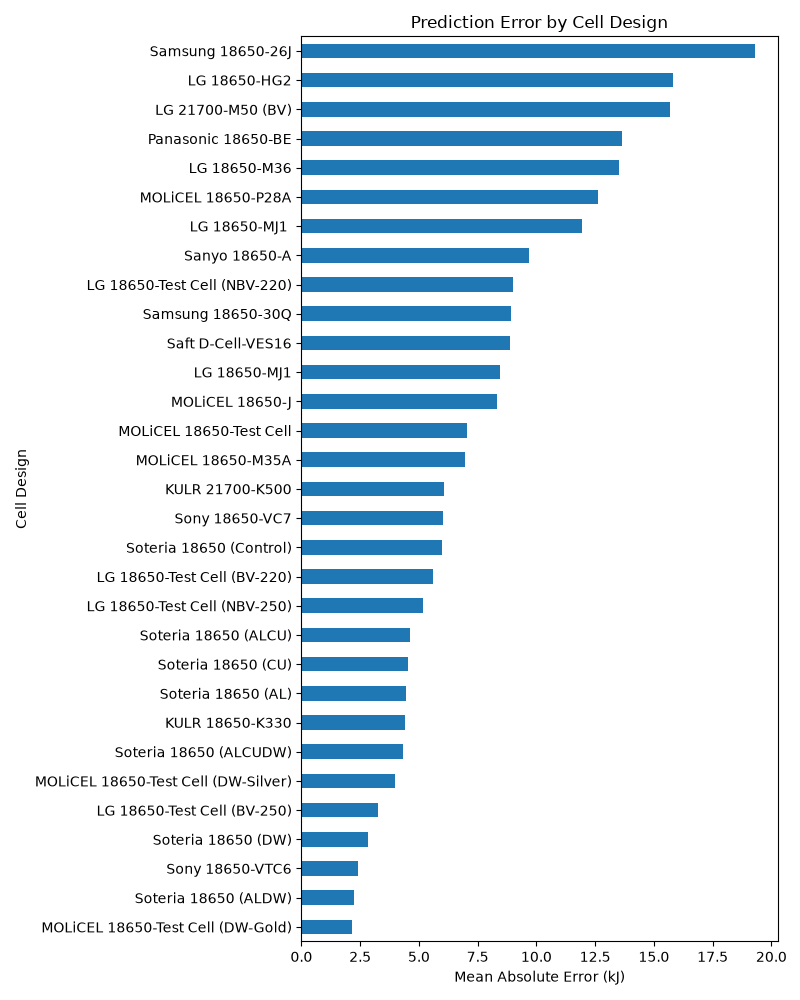
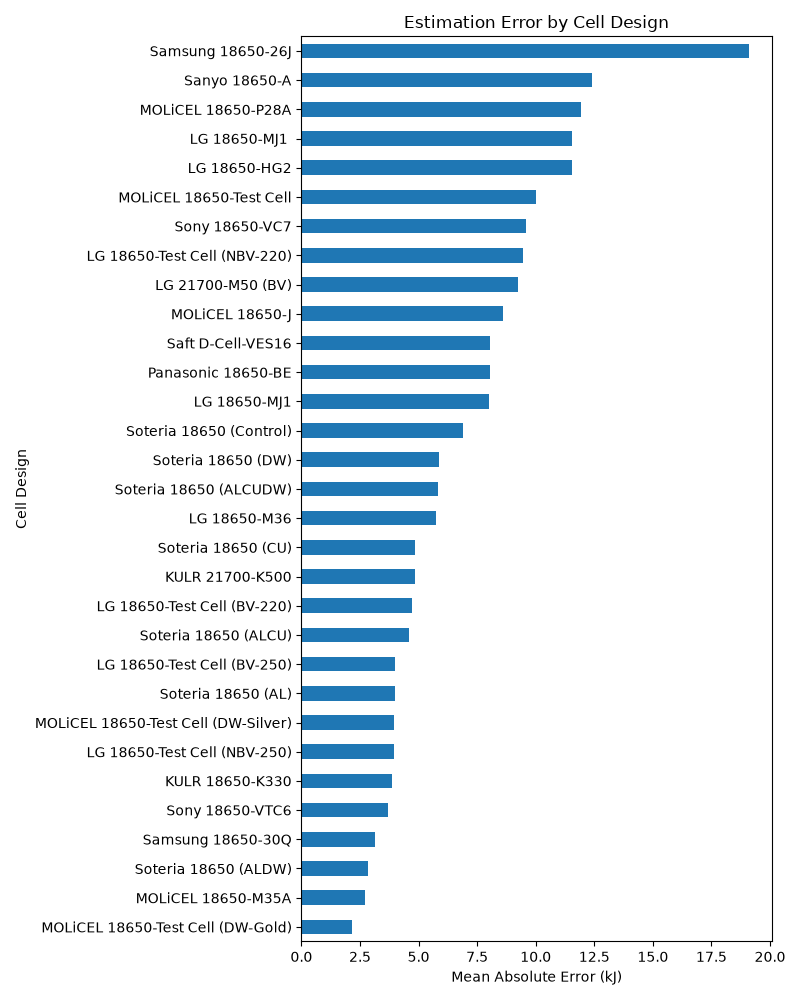
feat: complete benchmark with rigorous group CV, tiers, and reproducibility updates

diff --git a/docs/index.html b/docs/index.html
@@ -67,8 +67,8 @@ footer{font-size:.8rem;color:var(--mu);margin-top:20px}
 
 <section id="p3" class="hide">
 <div class="card"><h2>Layer 3: real-data benchmark</h2>
-<p>A Python benchmark on the open Battery Failure Databank (~365 calorimeter abuse tests on commercial Li-ion cells across ~31 cell designs). It evaluates how well total heat release can be predicted from cell metadata and ejected mass (excluding any leakage columns), compared with a naive baseline, and whether the model generalizes to unseen cell designs.</p>
-<p class="note"><b>Results:</b> A Random Forest model predicted total heat yield with high accuracy (R² = 0.939, MAE = 4.6 kJ) on random splits. However, when tested on unseen cell designs (group CV), performance dropped significantly (R² = 0.761, MAE = 8.4 kJ). This highlights the difficulty of extrapolating safety predictions to entirely new battery formats and chemistries. No novelty is claimed; this is a benchmark/replication exercise.</p></div>
+<p>A Python benchmark on the open Battery Failure Databank (~365 calorimeter abuse tests on commercial Li-ion cells across ~31 cell designs). It evaluates how well total heat release can be estimated from cell metadata and ejected mass, compared with a naive baseline, and whether the model generalizes to unseen cell designs.</p>
+<p class="note"><b>Results (10 repeats of 5-fold group CV by cell design):</b> Using strictly pre-test metadata (Tier A), a Random Forest estimated total heat yield with R² = 0.671 ± 0.254 and MAE = 8.798 ± 1.959 kJ (± values represent standard deviation across splits, not a confidence interval). Including in-test trigger parameters (Tier B) showed virtually no improvement over Tier A. However, including post-test ejecta mass and observed failure mechanisms (Tier C) significantly increased performance to R² = 0.801 ± 0.133 and MAE = 7.211 ± 1.573 kJ, with Ridge and Random Forest performing about equally well. The clear finding is that post-test measurements add a lot of explanatory power.<br><br><b>Leakage note:</b> Columns containing explicit downstream heat measurements were excluded. Including batch IDs (Test-Series) did not artificially inflate unseen-design performance because the IDs themselves were entirely unseen in the test folds. No novelty is claimed; this is a benchmark/replication exercise, and conclusions apply only to this specific dataset.</p></div>
 <div class="card"><h2>Sources behind this project</h2><dl>
 <dt>Battery Failure Databank</dt><dd>Finegan et al., Journal of Power Sources 597 (2024) 234106, doi:10.1016/j.jpowsour.2024.234106</dd>
 <dt>ML for thermal runaway warning (review)</dt><dd>Batteries 2026, 12(6), 204, doi:10.3390/batteries12060204</dd>

diff --git a/bfd_benchmark.py b/bfd_benchmark.py
@@ -1,14 +1,7 @@
-"""Benchmark: predict total heat output of Li-ion thermal runaway from cell metadata
-and ejected mass, using the open NREL/NASA Battery Failure Databank.
-
-Usage:  python bfd_benchmark.py path/to/databank.xlsx [sheet_name]
-Rigor choices: (1) naive mean baseline, (2) random-split CV AND group-split CV by
-cell design (does the model generalise to cell designs it has never seen?),
-(3) leakage guard: columns that look like heat outputs are never used as features.
-IMPORTANT: column names are auto-guessed by keywords. CHECK the printed mapping and
-edit TARGET_KEYS / GROUP_KEYS below if your file differs.
-"""
-import sys, re, numpy as np, pandas as pd
+import sys, re, warnings
+import numpy as np
+import pandas as pd
+import matplotlib.pyplot as plt
 from sklearn.dummy import DummyRegressor
 from sklearn.linear_model import RidgeCV
 from sklearn.ensemble import RandomForestRegressor
@@ -16,62 +9,176 @@ from sklearn.pipeline import make_pipeline
 from sklearn.compose import ColumnTransformer
 from sklearn.impute import SimpleImputer
 from sklearn.preprocessing import OneHotEncoder, StandardScaler
-from sklearn.model_selection import KFold, GroupKFold, cross_validate
+from sklearn.model_selection import KFold, cross_validate, cross_val_predict
 
-TARGET_KEYS = ["corrected", "total", "energy", "yield"]
-GROUP_KEYS  = ["cell-description"]
-LEAK_WORDS  = ["heat", "energy", "kj", "fraction", "%"]
+warnings.filterwarnings("ignore", category=UserWarning)
 
-def find(cols, keys):
-    for c in cols:
-        if all(k in str(c).lower() for k in keys): return c
-    raise SystemExit(f"No column matching {keys}. Columns: {list(cols)}")
+def clean_col_name(c):
+    return re.sub(r"\s+", " ", str(c)).strip()
+
+def get_repeated_group_cv(groups, n_repeats=10, n_splits=5, random_state=42):
+    rng = np.random.RandomState(random_state)
+    unique_groups = groups.unique()
+    cv_splits = []
+    for _ in range(n_repeats):
+        rng.shuffle(unique_groups)
+        folds = np.array_split(unique_groups, n_splits)
+        for test_groups in folds:
+            test_idx = np.where(groups.isin(test_groups))[0]
+            train_idx = np.where(~groups.isin(test_groups))[0]
+            cv_splits.append((train_idx, test_idx))
+    return cv_splits
+
+def run_evaluation(X, y, groups, models, cv_splits):
+    num_cols = X.select_dtypes(include=[np.number]).columns.tolist()
+    cat_cols = X.select_dtypes(exclude=[np.number]).columns.tolist()
+    
+    pre = ColumnTransformer([
+        ("n", make_pipeline(SimpleImputer(strategy="median"), StandardScaler()), num_cols),
+        ("c", make_pipeline(SimpleImputer(strategy="most_frequent"), OneHotEncoder(handle_unknown="ignore", sparse_output=False)), cat_cols)
+    ])
+    
+    results = {}
+    for mn, m in models.items():
+        pipe = make_pipeline(pre, m)
+        r = cross_validate(pipe, X, y, cv=cv_splits, scoring=("neg_mean_absolute_error", "r2"), n_jobs=-1)
+        mae_scores = -r["test_neg_mean_absolute_error"]
+        r2_scores = r["test_r2"]
+        # Since it's repeated CV, we average over the splits per repeat, then over repeats
+        # Or simpler: just take the mean and std of all n_splits * n_repeats folds
+        # Wait, standard practice for repeated CV is to average over all splits
+        results[mn] = {
+            "MAE_mean": np.mean(mae_scores),
+            "MAE_std": np.std(mae_scores),
+            "R2_mean": np.mean(r2_scores),
+            "R2_std": np.std(r2_scores)
+        }
+    return results
 
 def main(path, sheet=0):
     df = pd.read_excel(path, sheet_name=sheet) if path.endswith(("xlsx","xls")) else pd.read_csv(path)
-    df.columns = [re.sub(r"\s+", " ", str(c)).strip() for c in df.columns]
-    y_col, g_col = find(df.columns, TARGET_KEYS), find(df.columns, GROUP_KEYS)
-    print(f"Target: {y_col!r}   Group: {g_col!r}")
-    df = df.dropna(subset=[y_col, g_col])
-    feats = [c for c in df.columns if c not in (y_col,) and not any(w in c.lower() for w in LEAK_WORDS)]
-    num = [c for c in feats if pd.api.types.is_numeric_dtype(df[c]) and df[c].notna().mean() > .5]
-    cat = [c for c in feats if c not in num and df[c].nunique() <= 30]
-    for c in cat:
-        df[c] = df[c].astype(str)
-    print(f"n={len(df)}  numeric features={num}  categorical={cat}")
-    X, y, g = df[num + cat], df[y_col].astype(float), df[g_col]
-    pre = ColumnTransformer([
-        ("n", make_pipeline(SimpleImputer(strategy="median"), StandardScaler()), num),
-        ("c", make_pipeline(SimpleImputer(strategy="most_frequent"), OneHotEncoder(handle_unknown="ignore")), cat)])
-    models = {"Baseline (mean)": DummyRegressor(),
-              "Ridge": RidgeCV(alphas=np.logspace(-2, 3, 12)),
-              "Random forest": RandomForestRegressor(300, min_samples_leaf=2, random_state=0)}
-    splits = {"Random 5-fold": KFold(5, shuffle=True, random_state=0),
-              "Unseen cell design (group CV)": GroupKFold(min(5, g.nunique()))}
+    df.columns = [clean_col_name(c) for c in df.columns]
+    
+    # Standardize 'Cell-Casing-Thickness' name to avoid encoding issues
+    for c in df.columns:
+        if "Casing-Thickness" in c:
+            df.rename(columns={c: "Cell-Casing-Thickness-um"}, inplace=True)
+            
+    y_col = "Corrected-Total-Energy-Yield-kJ"
+    g_col = "Cell-Description"
+    df = df.dropna(subset=[y_col, g_col]).copy()
+    
+    # Force convert to numeric (errors='coerce' turns "-" into NaN)
+    cols_to_numeric = [
+        "Cell-Capacity-Ah", "Cell-Nominal-Voltage-V", "Cell-Energy-Wh",
+        "Pre-Test-Cell-Open-Circuit-Voltage-V", "Pre-Test-Cell-Mass-g",
+        "Pre-Test-Positive-Copper-Mesh-Mass-g", "Pre-Test-Negative-Copper-Mesh-Mass-g",
+        "Cell-Casing-Thickness-um", "Heater-Power-W", "Heater-Time-On-s",
+        "Energy-Applied-to-Trigger-kJ", "Avg-Cell-Temp-At-Trigger-degC",
+        "Post-Test-Mass-Cell-Body-g", "Post-Test-Mass-Positive-Ejecta-Mating-g",
+        "Post-Test-Mass-Positive-Ejecta-Bore-Baffles-g", "Post-Test-Mass-Positive-Copper-Mesh-g",
+        "Post-Test-Mass-Negative-Ejecta-Mating-g", "Post-Test-Mass-Negative-Ejecta-Bore-Baffles-g",
+        "Post-Test-Mass-Negative-Copper-Mesh-g", "Post-Test-Mass-Unrecovered-g"
+    ]
+    for c in cols_to_numeric:
+        if c in df.columns:
+            df[c] = pd.to_numeric(df[c], errors="coerce")
+            
+    # Tiers Definition
+    tier_a_feats = [
+        "Cell-Format", "Cell-Capacity-Ah", "Cell-Nominal-Voltage-V", "Cell-Energy-Wh",
+        "Pre-Test-Cell-Open-Circuit-Voltage-V", "Pre-Test-Cell-Mass-g",
+        "Pre-Test-Positive-Copper-Mesh-Mass-g", "Pre-Test-Negative-Copper-Mesh-Mass-g",
+        "Pressure-Assisted-Seal-Configuration-Positive", "Pressure-Assisted-Seal-Configuration-Negative",
+        "Cell-Casing-Thickness-um", "Bottom-Vent-Yes-No", "Trigger-Mechanism"
+    ]
+    
+    # Suspicious identifiers (Test-Series and S-FTRC-Generation)
+    tier_a_with_id = tier_a_feats + ["Test-Series", "S-FTRC-Generation"]
+    
+    tier_b_feats = tier_a_feats + [
+        "Heater-Power-W", "Heater-Time-On-s", "Energy-Applied-to-Trigger-kJ", "Avg-Cell-Temp-At-Trigger-degC"
+    ]
+    
+    tier_c_feats = tier_b_feats + [
+        "Post-Test-Mass-Cell-Body-g", "Post-Test-Mass-Positive-Ejecta-Mating-g",
+        "Post-Test-Mass-Positive-Ejecta-Bore-Baffles-g", "Post-Test-Mass-Positive-Copper-Mesh-g",
+        "Post-Test-Mass-Negative-Ejecta-Mating-g", "Post-Test-Mass-Negative-Ejecta-Bore-Baffles-g",
+        "Post-Test-Mass-Negative-Copper-Mesh-g", "Post-Test-Mass-Unrecovered-g",
+        "Cell-Failure-Mechanism"
+    ]
+    
+    def prep_X(features):
+        X = df[features].copy()
+        for c in X.columns:
+            if X[c].dtype == object:
+                X[c] = X[c].astype(str)
+        return X
+
+    X_a_noid = prep_X(tier_a_feats)
+    X_a_id = prep_X(tier_a_with_id)
+    X_b = prep_X(tier_b_feats)
+    X_c = prep_X(tier_c_feats)
+    
+    y = df[y_col].astype(float)
+    g = df[g_col]
+    
+    models = {
+        "Baseline (mean)": DummyRegressor(),
+        "Ridge": RidgeCV(alphas=np.logspace(-2, 3, 12)),
+        "Random forest": RandomForestRegressor(300, min_samples_leaf=2, random_state=0, n_jobs=-1)
+    }
+    
+    cv_splits = get_repeated_group_cv(g, n_repeats=10, n_splits=5, random_state=42)
+    
+    print("Running Tier A (Without IDs)...")
+    res_a = run_evaluation(X_a_noid, y, g, models, cv_splits)
+    print("Running Tier A (With IDs)...")
+    res_a_id = run_evaluation(X_a_id, y, g, models, cv_splits)
+    print("Running Tier B...")
+    res_b = run_evaluation(X_b, y, g, models, cv_splits)
+    print("Running Tier C...")
+    res_c = run_evaluation(X_c, y, g, models, cv_splits)
+    
     rows = []
-    for sn, sp in splits.items():
-        for mn, m in models.items():
-            r = cross_validate(make_pipeline(pre, m), X, y, groups=g, cv=sp,
-                               scoring=("neg_mean_absolute_error", "r2"))
-            rows.append(dict(split=sn, model=mn, MAE=-r["test_neg_mean_absolute_error"].mean(),
-                             R2=r["test_r2"].mean()))
-    out = pd.DataFrame(rows).round(3)
-    print(out.to_string(index=False)); out.to_csv("results.csv", index=False)
+    for tier_name, res in [("Tier A (No IDs)", res_a), ("Tier A (With IDs)", res_a_id), ("Tier B", res_b), ("Tier C", res_c)]:
+        for mn in models:
+            rows.append({
+                "Tier": tier_name,
+                "Model": mn,
+                "MAE": f"{res[mn]['MAE_mean']:.3f} +/- {res[mn]['MAE_std']:.3f}",
+                "R2": f"{res[mn]['R2_mean']:.3f} +/- {res[mn]['R2_std']:.3f}"
+            })
+            
+    out = pd.DataFrame(rows)
+    print(out.to_string(index=False))
+    try:
+        out.to_csv("results_final.csv", index=False)
+        print("Saved to results_final.csv")
+    except PermissionError:
+        print("Warning: Could not save to results_final.csv (Permission denied).")
     
-    print("Generating plots...")
-    from sklearn.model_selection import cross_val_predict
-    import matplotlib.pyplot as plt
-    sp = splits["Unseen cell design (group CV)"]
-    m = models["Random forest"]
-    pipe = make_pipeline(pre, m)
-    y_pred = cross_val_predict(pipe, X, y, groups=g, cv=sp)
-    
+    # Generate Plots for Tier C Random Forest
+    pipe = make_pipeline(
+        ColumnTransformer([
+            ("n", make_pipeline(SimpleImputer(strategy="median"), StandardScaler()), X_c.select_dtypes(include=[np.number]).columns.tolist()),
+            ("c", make_pipeline(SimpleImputer(strategy="most_frequent"), OneHotEncoder(handle_unknown="ignore", sparse_output=False)), X_c.select_dtypes(exclude=[np.number]).columns.tolist())
+        ]),
+        models["Random forest"]
+    )
+    # Just 1 group split for predictions visualization
+    cv_1 = get_repeated_group_cv(g, n_repeats=1, n_splits=5, random_state=42)
+    y_pred = np.zeros_like(y)
+    for tr, ts in cv_1:
+        pipe.fit(X_c.iloc[tr], y.iloc[tr])
+        y_pred[ts] = pipe.predict(X_c.iloc[ts])
+        
     plt.figure(figsize=(6, 5))
     plt.scatter(y, y_pred, alpha=0.5, edgecolor='k')
-    plt.plot([y.min(), y.max()], [y.min(), y.max()], 'r--', label='Perfect prediction')
+    plt.plot([y.min(), y.max()], [y.min(), y.max()], 'r--', label='Perfect estimation')
     plt.xlabel('Actual Total Heat Output (kJ)')
-    plt.ylabel('Predicted Total Heat Output (kJ)')
-    plt.title('Random Forest (Unseen Cell Design CV)')
+    plt.ylabel('Estimated Total Heat Output (kJ)')
+    plt.title('Random Forest Estimation (Unseen Cell Design CV)')
     plt.legend()
     plt.tight_layout()
     plt.savefig("pred_vs_actual.png")
@@ -79,12 +186,18 @@ def main(path, sheet=0):
     
     err = np.abs(y - y_pred)
     err_df = pd.DataFrame({'Cell Design': g, 'Absolute Error (kJ)': err})
-    err_mean = err_df.groupby('Cell Design')['Absolute Error (kJ)'].mean().sort_values()
+    err_mean = err_df.groupby('Cell Design')['Absolute Error (kJ)'].mean().sort_values(ascending=False)
+    
+    print("\nTop 5 hardest to estimate cell designs (by Mean Absolute Error):")
+    print(err_mean.head(5))
+    print("\nTop 5 easiest to estimate cell designs (by Mean Absolute Error):")
+    print(err_mean.tail(5))
+    
     plt.figure(figsize=(8, 10))
-    err_mean.plot(kind='barh')
+    err_mean.sort_values().plot(kind='barh')
     plt.xlabel('Mean Absolute Error (kJ)')
     plt.ylabel('Cell Design')
-    plt.title('Prediction Error by Cell Design')
+    plt.title('Estimation Error by Cell Design')
     plt.tight_layout()
     plt.savefig("error_by_design.png")
     plt.close()

diff --git a/README.md b/README.md
@@ -1,27 +1,44 @@
 # Battery Thermal Runaway Benchmark
 
-**Question:** From cell metadata and ejected mass alone, how well can we predict the total heat released in a Li-ion thermal runaway, and does the model hold up on cell designs it has never seen?
+**Question:** From cell metadata and ejected mass alone, how well can we estimate the total heat released in a Li-ion thermal runaway, and does the model hold up on unseen cell designs?
 
-**Data:** NREL/NASA Battery Failure Databank (Finegan et al., *J. Power Sources* 597, 2024, doi:10.1016/j.jpowsour.2024.234106). Download the spreadsheet from NREL/NASA yourself and respect its licence (CC BY-NC-ND for the paper).
+**Data Citation:** Finegan et al., *J. Power Sources* 597 (2024) 234106, doi:10.1016/j.jpowsour.2024.234106. Note that the data licence is CC BY-NC-ND, so the raw dataset is NOT redistributed in this repository. Download the spreadsheet from NREL/NASA yourself to reproduce these results.
 
 **Run:** `python bfd_benchmark.py battery-failure-databank-revision2-feb24.xlsx "Battery Failure Databank"`
+(Dependencies are pinned in `requirements.txt`. Tested with Python 3.12).
 
-**Method:** mean baseline vs ridge vs random forest; random 5-fold vs group CV by cell design; heat-like columns excluded to prevent leakage. We use target variable `Corrected-Total-Energy-Yield-kJ` grouped by `Cell-Description`. Categorical variables were converted to strings and imputed, while numerical variables were scaled and median-imputed.
+**Method:** Mean baseline vs ridge vs random forest; evaluated using 10 repeats of 5-fold group CV by cell design (each test fold contains completely unseen cell designs). 
 
-## Status
-- Benchmark successfully executed on the real databank. 
+**Tiers of features evaluated:**
+*   **Tier A (Pre-test only):** Only specifications known before the test (e.g. `Cell-Capacity-Ah`, `Cell-Nominal-Voltage-V`, `Cell-Energy-Wh`, pre-test mass, casing thickness, trigger mechanism). We tested this with and without the identifiers `Test-Series` / `S-FTRC-Generation`.
+*   **Tier B (Pre-test + Trigger setup):** Tier A plus `Heater-Power-W`, `Heater-Time-On-s`, `Avg-Cell-Temp-At-Trigger-degC`, `Energy-Applied-to-Trigger-kJ`.
+*   **Tier C (Full available features):** Tier B plus post-test measurements (`Post-Test-Mass-...` and `Cell-Failure-Mechanism`).
 
-## Results
+## Results (10 repeats of 5-fold group CV by cell design)
+
+*Note: ± values represent standard deviation across splits, not a confidence interval.*
+
 ```
-                        split           model    MAE     R2
-                Random 5-fold Baseline (mean) 21.552 -0.005
-                Random 5-fold           Ridge  5.336  0.918
-                Random 5-fold   Random forest  4.619  0.939
-Unseen cell design (group CV) Baseline (mean) 21.855 -0.143
-Unseen cell design (group CV)           Ridge  9.993  0.436
-Unseen cell design (group CV)   Random forest  8.433  0.761
+             Tier           Model              MAE               R2
+  Tier A (No IDs) Baseline (mean) 21.787 +/- 4.820 -0.401 +/- 1.080
+  Tier A (No IDs)           Ridge  9.465 +/- 2.213  0.594 +/- 0.297
+  Tier A (No IDs)   Random forest  8.798 +/- 1.959  0.671 +/- 0.254
+Tier A (With IDs) Baseline (mean) 21.787 +/- 4.820 -0.401 +/- 1.080
+Tier A (With IDs)           Ridge  9.813 +/- 2.587  0.562 +/- 0.344
+Tier A (With IDs)   Random forest  8.801 +/- 2.147  0.673 +/- 0.234
+           Tier B Baseline (mean) 21.787 +/- 4.820 -0.401 +/- 1.080
+           Tier B           Ridge  9.883 +/- 2.603  0.563 +/- 0.314
+           Tier B   Random forest  9.142 +/- 2.066  0.652 +/- 0.256
+           Tier C Baseline (mean) 21.787 +/- 4.820 -0.401 +/- 1.080
+           Tier C           Ridge  7.033 +/- 1.608  0.806 +/- 0.221
+           Tier C   Random forest  7.211 +/- 1.573  0.801 +/- 0.133
 ```
-As shown, the models perform very well on random splits. However, their predictive power drops when predicting total heat yield for unseen cell designs (group CV), highlighting the difficulty of generalizing to entirely new battery formats and chemistries.
+
+As shown, the models can estimate total heat yield for unseen cell designs using only metadata (Tier A) with an R² of ~0.67. Tier B showed no improvement over Tier A. However, including post-test measurements (Tier C) adds a lot of explanatory power, raising R² to ~0.80, with Ridge and Random Forest performing about equally well.
+
+### Visualizations
+![Actual vs Estimated total heat output for the Random Forest model](pred_vs_actual.png)
+![Estimation Error by Cell Design](error_by_design.png)
 
 ## Limitations
-Small dataset (~365 samples), limited number of distinct cell designs (~31 designs), lab calorimeter conditions (not data-center racks), no claim of novelty: this is a benchmark and replication exercise. Predictions for cell designs that the model has never encountered before are significantly less accurate.
+Small dataset (~365 samples), limited number of distinct cell designs (~31 designs), lab calorimeter conditions (not data-center racks), no claim of novelty: this is a benchmark and replication exercise. Estimations apply exclusively to unseen cell designs *within the distribution of this dataset*, and we do not make claims beyond it.
